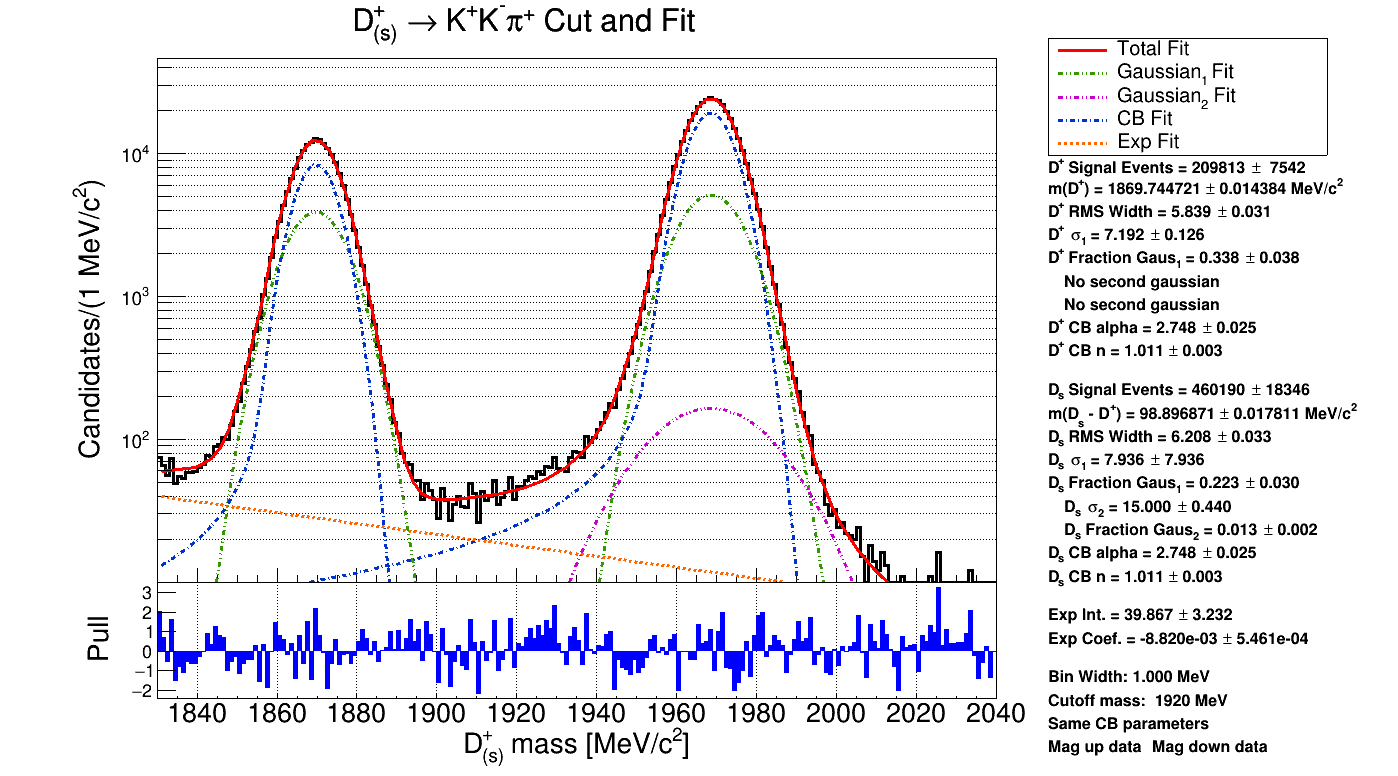
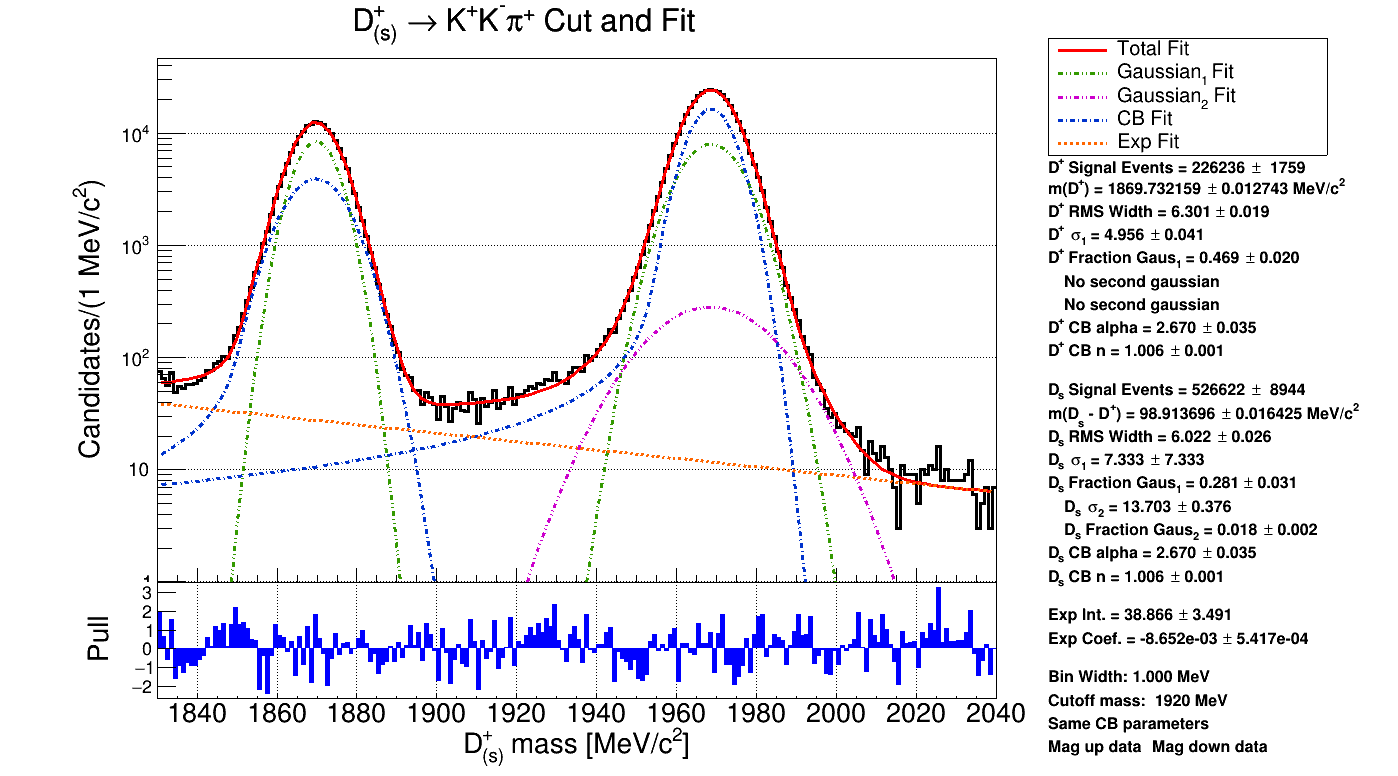
momentum range fit adjustments

diff --git a/FinalCuts.C b/FinalCuts.C
@@ -36,9 +36,9 @@ Bool_t isSecondPeakDoubleGaus = 1; //1: double gaus in Ds, 0: single
 
 // upper and lower limits for momentum-restricted plots (GeV)
 // make PLOWER 0 and PUPPER outrageously large to ignore this
-//t his is prtty new so the signalpeak guesses may need to be adjusted
+// this is prtty new so the signalpeak guesses may need to be adjusted
 Int_t P_LOWER = 0;
-Int_t P_UPPER = 10000000000;
+Int_t P_UPPER = 100000000;
 
 
 
@@ -142,7 +142,7 @@ ROOT::Math::MinimizerOptions::SetDefaultMaxFunctionCalls(5000);
       dpdspHist->SetTitleSize(35);
 		//*********NEED TO FIX BELOW LINE TO CHANGE PER binWidth INPUT**********
       dpdspHist->GetYaxis()->SetTitle("Candidates/(1 MeV/c^{2})");
-      dpdspHist->SetMinimum(10);//set min to 100 for logy so it doesnt break and ignore uninteresting stuff
+      dpdspHist->SetMinimum(1);//set min to 100 for logy so it doesnt break and ignore uninteresting stuff
 		if (binWidth < 1) {dpdspHist->SetMinimum(10);}
       dpdspHist->GetYaxis()->SetTitleFont(43);
       dpdspHist->GetYaxis()->SetTitleSize(30);
@@ -226,8 +226,8 @@ void FinalCuts::Terminate()
    dpdspFit->SetParameter(6, 1869);//approx Dplus mass
    dpdspFit->SetParameter(7, 6);//rms width
    dpdspFit->SetParameter(8, 7);//sigma
-   dpdspFit->SetParameter(9, 0.7);//fraction in first gaus
-      dpdspFit->SetParLimits(9, 0.000001, 0.999999);//ensure between 0 and 1
+   dpdspFit->SetParameter(9, 0.3);//fraction in first gaus
+      dpdspFit->SetParLimits(9, 0.000001, 0.99999);//ensure between 0 and 1
    dpdspFit->SetParameter(10, 2);//CB alpha
 		dpdspFit->SetParLimits(10, 0, 10);
    dpdspFit->SetParameter(11, 3);//CB n
@@ -241,16 +241,18 @@ void FinalCuts::Terminate()
    }
    dpdspFit->SetParameter(14, 6);//rms width
    dpdspFit->SetParameter(15, 7);//sigma
-   dpdspFit->SetParameter(16, 0.7);//fraction in first gaus
-      dpdspFit->SetParLimits(16, 0.000001, 0.999999);//ensure between 0 and 1
+   dpdspFit->SetParameter(16, 0.2);//fraction in first gaus
+      dpdspFit->SetParLimits(16, 0.000001, 0.99999);//ensure between 0 and 1
    dpdspFit->SetParameter(17, 2);//CB alpha
 		dpdspFit->SetParLimits(17, 0, 10);
    dpdspFit->SetParameter(18, 3);//CB n
 		dpdspFit->SetParLimits(18, 1.000001, 15);
+
    //background parameters
    dpdspFit->SetParameter(19, firstBin);//exp_int
 		//dpdspFit->SetParLimits(19, firstBin-20, firstBin+20);
    dpdspFit->SetParameter(20, expCoefGuess);
+
    //extra parameters for double gaussians
    if (isFirstPeakDoubleGaus) {
       dpdspFit->SetParameter(21, 10);//sigma2 of peak1
@@ -263,9 +265,9 @@ void FinalCuts::Terminate()
       dpdspFit->FixParameter(22, 0);
    }
    if (isSecondPeakDoubleGaus) {
-      dpdspFit->SetParameter(23, 10);//sigma2 of peak1
+      dpdspFit->SetParameter(23, 10);//sigma2 of peak2
 		dpdspFit->SetParLimits(23,1,15);
-      dpdspFit->SetParameter(24, 0.05);//fraction in second gaus
+      dpdspFit->SetParameter(24, 0.01);//fraction in second gaus
          dpdspFit->SetParLimits(24, 0.000001, 0.25);//small between 0 and 1
    } else {
       //make 0s so that the fit function still takes something, though meaningless
